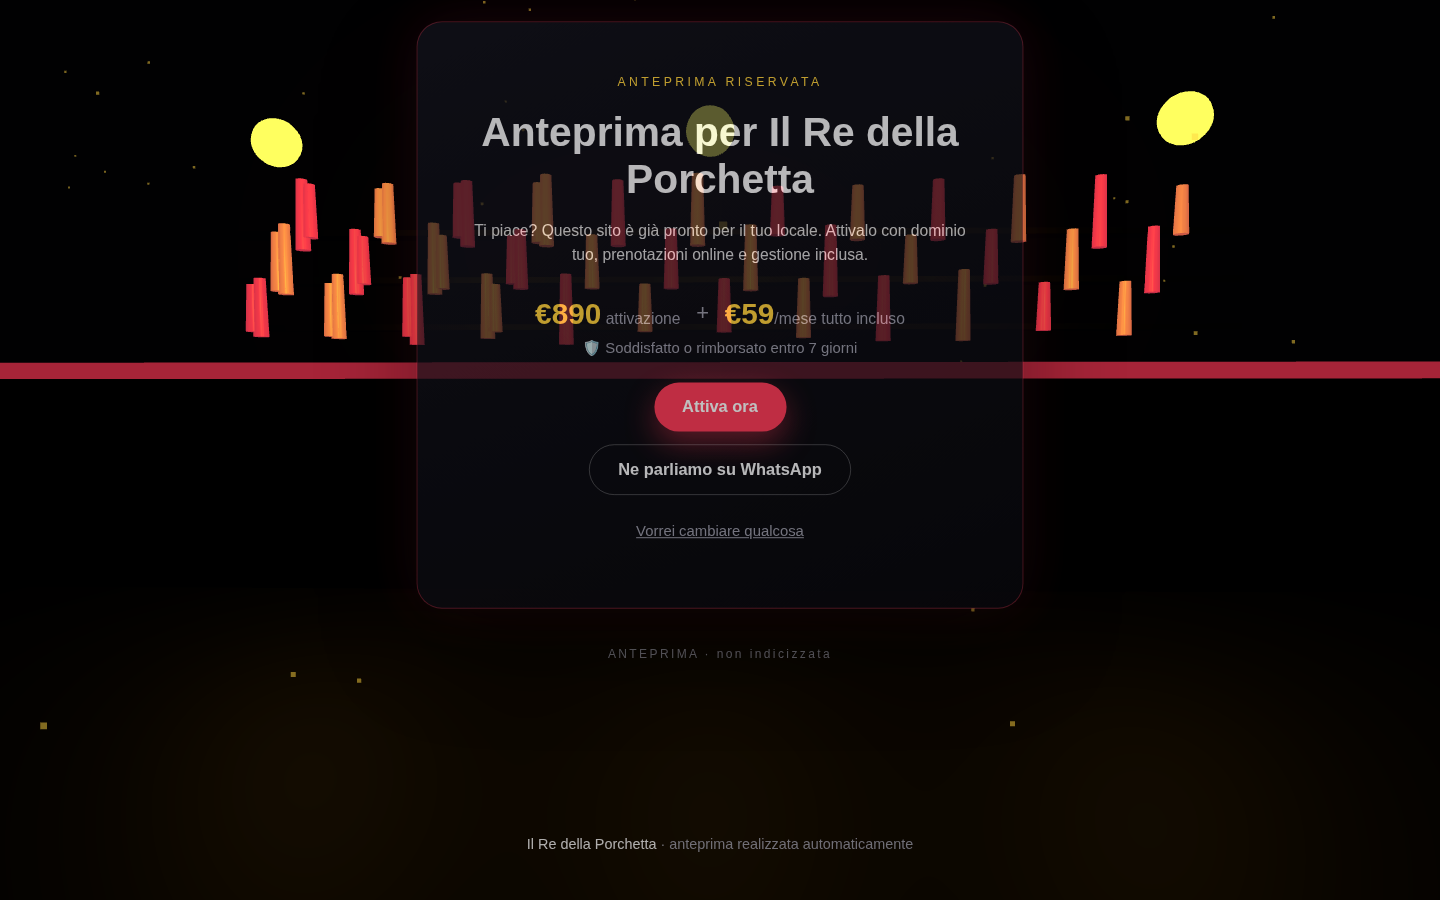
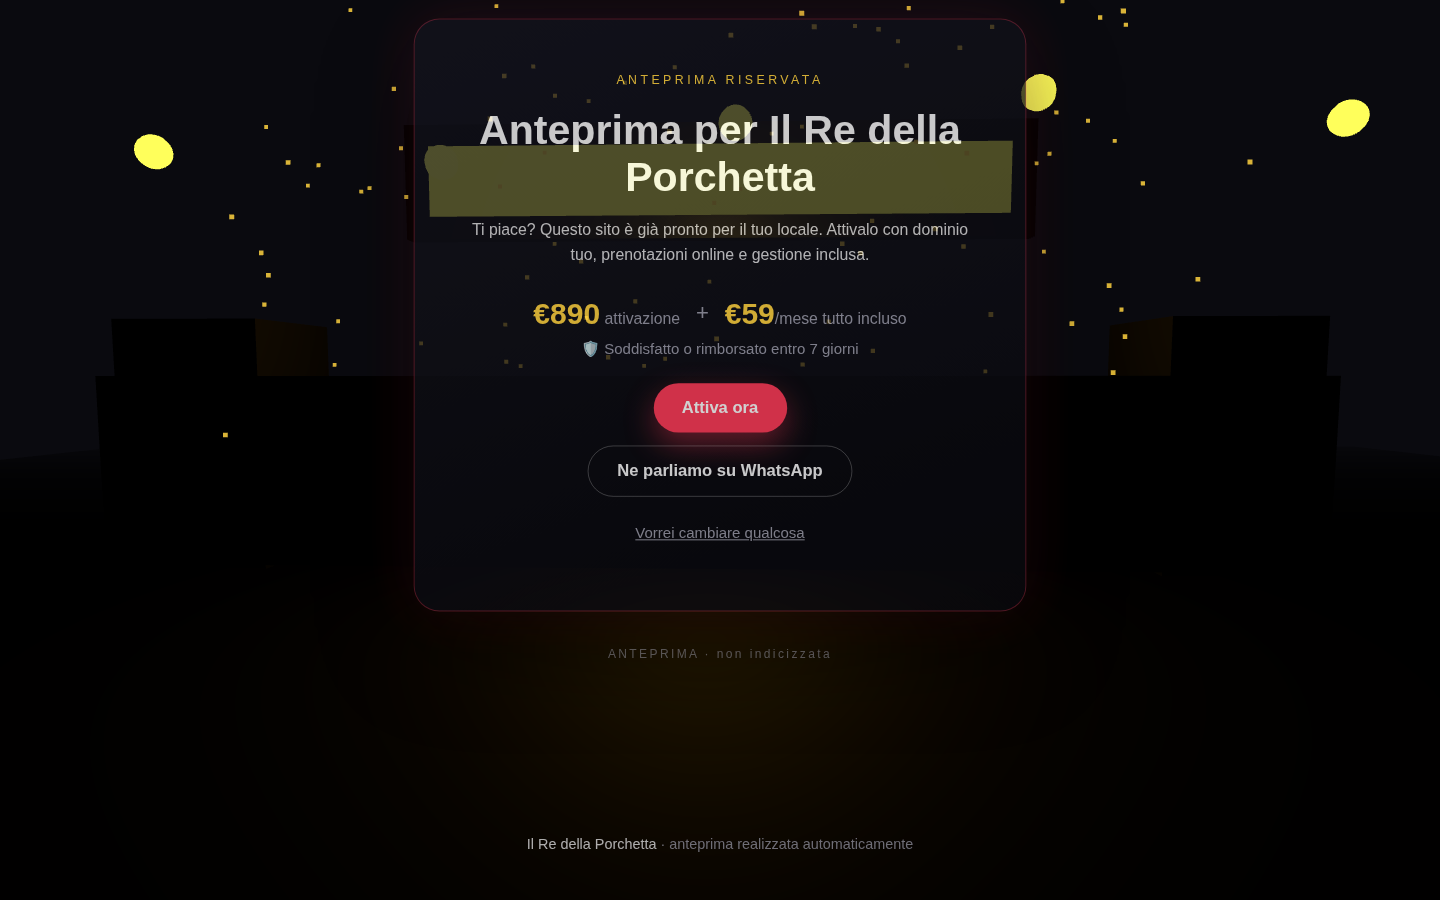
Add visual sales cockpit + street-food 3D scene + robust browser launcher
- scripts/cockpit.mjs: dashboard HTML (KPI, funnel, demo card con screenshot, cancelli, MRR) in outbox/cockpit.html, integrato nella pipeline
- StreetFoodScene: scena 3D distinta (griglia incandescente, braci, insegna) per porchetterie/street food
- lib/browser.mjs: launcher Chromium condiviso (usa il build completo preinstallato) usato da verify e tooling

Claude-Session: https://claude.ai/code/session_0188YfMgnDDs1NVN1Mm385NE

diff --git a/local3d-prospector/outbox/cockpit.html b/local3d-prospector/outbox/cockpit.html
@@ -1,0 +1,68 @@
+<!doctype html><html lang="it"><head><meta charset="utf8"><meta name="viewport" content="width=device-width,initial-scale=1">
+<title>Local3D · Cockpit</title><style>
+*{box-sizing:border-box;margin:0}body{font-family:system-ui,sans-serif;background:#0a0a0f;color:#f5f5f7;padding:2rem;max-width:1200px;margin:auto}
+h1{font-size:1.6rem;margin-bottom:.3rem}.sub{color:#9a9aa8;margin-bottom:1.5rem}
+.kpis{display:flex;gap:1rem;flex-wrap:wrap;margin-bottom:2rem}
+.kpi{background:#15151f;border:1px solid #ffffff14;border-radius:14px;padding:1rem 1.4rem;min-width:140px}
+.kpi b{font-size:1.8rem;display:block;color:#ffd23f}.kpi span{color:#9a9aa8;font-size:.85rem}
+h2{font-size:1.1rem;margin:2rem 0 1rem;border-bottom:1px solid #ffffff14;padding-bottom:.5rem}
+.frow{display:flex;align-items:center;gap:.6rem;margin:.35rem 0}.fname{width:110px;color:#9a9aa8;font-size:.85rem}
+.fbar{height:12px;background:linear-gradient(90deg,#ff3d5a,#ffd23f);border-radius:6px;min-width:4px}.fnum{font-weight:700}
+.grid{display:grid;grid-template-columns:repeat(auto-fill,minmax(340px,1fr));gap:1.2rem}
+.card{background:#15151f;border:1px solid #ffffff14;border-radius:16px;padding:1.1rem}
+.chead{display:flex;justify-content:space-between;align-items:center}.chead h3{font-size:1.15rem}
+.score{background:#ff3d5a22;border:1px solid #ff3d5a55;color:#ffd23f;border-radius:100px;padding:.1rem .7rem;font-weight:700}
+.meta{color:#9a9aa8;font-size:.85rem;margin:.5rem 0}.small{font-size:.78rem}
+.shots{display:grid;grid-template-columns:2fr 1fr;grid-template-rows:auto auto;gap:.4rem;margin:.6rem 0}
+.shots a:first-child{grid-row:span 2}.shots img{width:100%;border-radius:8px;display:block;border:1px solid #ffffff14}
+.actions{display:flex;flex-direction:column;gap:.3rem;margin-top:.6rem}
+code{background:#000;padding:.25rem .5rem;border-radius:6px;font-size:.75rem;color:#ffd23f;display:block;overflow:auto}
+.state{padding:.05rem .5rem;border-radius:100px;font-size:.72rem}.s-approvata{background:#3fae6a33;color:#7fe0a3}
+.s-demo-pronta{background:#ffd23f22;color:#ffd23f}.s-pagato,.s-live,.s-attivo{background:#00e5ff22;color:#7ff0ff}
+.empty{color:#6a6a78;font-style:italic}
+</style></head><body>
+<h1>Local3D · Cockpit</h1>
+<div class="sub">Governa i due cancelli. Aggiornato: 2026-07-05T06:32:09.564Z</div>
+<div class="kpis">
+  <div class="kpi"><b>3</b><span>prospect totali</span></div>
+  <div class="kpi"><b>1</b><span>demo da approvare</span></div>
+  <div class="kpi"><b>2</b><span>contatti da inviare</span></div>
+  <div class="kpi"><b>0</b><span>clienti</span></div>
+  <div class="kpi"><b>€0</b><span>MRR stimato</span></div>
+</div>
+
+<h2>🟢 Cancello 1 — Demo da approvare (1)</h2>
+<div class="grid"><div class="card">
+    <div class="chead"><h3>Il Re della Porchetta</h3><span class="score">46</span></div>
+    <div class="meta">4.6★ (512) · Frascati · streetfood · <span class="state s-demo-pronta">demo-pronta</span></div>
+    <div class="shots"><a href="../sites/il-re-della-porchetta/shots/desktop-hero.png" target="_blank"><img src="../sites/il-re-della-porchetta/shots/desktop-hero.png" loading="lazy"></a><a href="../sites/il-re-della-porchetta/shots/mobile-hero.png" target="_blank"><img src="../sites/il-re-della-porchetta/shots/mobile-hero.png" loading="lazy"></a><a href="../sites/il-re-della-porchetta/shots/desktop-cta.png" target="_blank"><img src="../sites/il-re-della-porchetta/shots/desktop-cta.png" loading="lazy"></a></div>
+    <div class="meta small">QA ✓ 1060KB · 558ms</div>
+    <div class="meta small">Demo: <code>https://api.local3d.example/d/iuo8uijz49fm1ur3nxemyt</code></div>
+    <div class="actions">
+      <code>npm run registry -- approve mock_porchetta_re</code>
+      <code>npm run registry -- reject mock_porchetta_re</code>
+    </div>
+  </div></div>
+
+<h2>✅ Approvate — pronte a pubblicare/inviare (1)</h2>
+<div class="grid"><div class="card">
+    <div class="chead"><h3>Arcadia Pub</h3><span class="score">56</span></div>
+    <div class="meta">4.7★ (384) · Ciampino · pub · <span class="state s-approvata">approvata</span></div>
+    <div class="shots"><a href="../sites/arcadia-pub/shots/desktop-hero.png" target="_blank"><img src="../sites/arcadia-pub/shots/desktop-hero.png" loading="lazy"></a><a href="../sites/arcadia-pub/shots/mobile-hero.png" target="_blank"><img src="../sites/arcadia-pub/shots/mobile-hero.png" loading="lazy"></a><a href="../sites/arcadia-pub/shots/desktop-cta.png" target="_blank"><img src="../sites/arcadia-pub/shots/desktop-cta.png" loading="lazy"></a></div>
+    <div class="meta small">QA ✓ 1057KB · 565ms</div>
+    <div class="meta small">Demo: <code>https://api.local3d.example/d/b17kza8jecjol730fgw4u9</code></div>
+    <div class="actions">
+      <code>npm run registry -- approve mock_arcadia_pub</code>
+      <code>npm run registry -- reject mock_arcadia_pub</code>
+    </div>
+  </div></div>
+
+<h2>📊 Funnel</h2>
+<div class="frow"><span class="fname">trovato</span><span class="fbar" style="width:100%"></span><span class="fnum">1</span></div><div class="frow"><span class="fname">demo-pronta</span><span class="fbar" style="width:100%"></span><span class="fnum">1</span></div><div class="frow"><span class="fname">approvata</span><span class="fbar" style="width:100%"></span><span class="fnum">1</span></div>
+
+<h2>📨 Cancello 2 — Contatti pronti (2)</h2>
+<div class="meta">• <b>Arcadia Pub</b> — info@arcadiapub.example · <code>npm run registry -- sent mock_arcadia_pub</code></div><div class="meta">• <b>Il Re della Porchetta</b> — prenotazioni@reporchetta.example · <code>npm run registry -- sent mock_porchetta_re</code></div>
+
+<h2>🔥 Lead caldi</h2>
+<p class="meta small">In produzione arrivano dal backend: <code>curl -H "Authorization: Bearer $ADMIN_TOKEN" $WORKER_BASE/admin/leads</code> — chi ha aperto/cliccato la demo è il momento di chiamare.</p>
+</body></html>

diff --git a/local3d-prospector/sites/il-re-della-porchetta/index.html b/local3d-prospector/sites/il-re-della-porchetta/index.html
@@ -11,9 +11,9 @@
       Un solo bundle, N siti: si cambia solo questo blocco per cliente.
     -->
     <script id="business-data">
-      window.__BUSINESS__ = {"meta":{"place_id":"mock_porchetta_re","slug":"il-re-della-porchetta","owner_id":"danilo","category":"porchetteria","template":"streetfood","build_mode":"demo","score":46,"generated_at":"2026-07-05T06:26:00.321Z"},"identity":{"name":"Il Re della Porchetta","claim":"Porchetta, come si deve","tone":"street"},"contacts":{"phone":{"value":"06 9876 5432","source":"google_places"},"address":{"value":"Piazza del Mercato 8, 00044 Frascati RM","maps_url":"https://maps.google.com/?cid=porchetta","source":"google_places"},"hours":{"value":["lunedì: Chiuso","martedì: 10:00–15:00","mercoledì: 10:00–15:00","giovedì: 10:00–15:00","venerdì: 10:00–15:00, 18:00–22:00","sabato: 10:00–22:00","domenica: 10:00–16:00"],"source":"google_places"}},"social_proof":{"rating":4.6,"count":512,"source":"google_places","themes":[{"label":"Porchetta","evidence_count":4,"source":"derived_from_reviews"},{"label":"Panino","evidence_count":2,"source":"derived_from_reviews"}],"testimonials":[{"text":"La porchetta è leggendaria, il panino più buono dei Castelli. C'è sempre la fila ma ne vale la pena.","author":"Cliente G.","source":"derived_from_reviews"},{"text":"Supplì fantastici e porchetta da urlo. Prenotate per il pranzo della domenica.","author":"Cliente M.","source":"derived_from_reviews"},{"text":"Panino con la porchetta enorme e saporito, salsiccia ottima. Sempre pieno.","author":"Cliente A.","source":"derived_from_reviews"}]},"gallery":[],"loved":[{"name":"Porchetta","source":"derived_from_reviews"},{"name":"Panino","source":"derived_from_reviews"}],"theme":{"palette":{"bg":"#0a0a0f","surface":"#15151f","primary":"#ff3d5a","accent":"#ffd23f","text":"#f5f5f7","muted":"#9a9aa8"},"font_display":"'Anton', sans-serif","font_body":"'Inter', sans-serif","fx_intensity":"high"},"sections_order":["hero","atmosphere","loved","reviews","hours","contact","cta"],"cta":{"mode":"demo","headline":"Anteprima per Il Re della Porchetta","price_setup_eur":890,"price_monthly_eur":59,"guarantee_days":7,"wa_link":"https://wa.me/390698765432?text=Buongiorno!%20Sono%20Danilo%2C%20creo%20siti%20per%20locali%20della%20zona.%20Ho%20preparato%20un'anteprima%20gratuita%20del%20sito%20di%20Il%20Re%20della%20Porchetta%2C%20guardatela%20quando%20volete%3A%20https%3A%2F%2Fapi.local3d.example%2Fd%2Fvc6fsvy5pykgn6y34jgj3z%20%E2%80%94%20se%20vi%20piace%20ne%20parliamo%2C%20altrimenti%20nessun%20problema%20%F0%9F%99%82","checkout_url":"https://api.local3d.example/buy/vc6fsvy5pykgn6y34jgj3z","track_url":"https://api.local3d.example/track"}};
+      window.__BUSINESS__ = {"meta":{"place_id":"mock_porchetta_re","slug":"il-re-della-porchetta","owner_id":"danilo","category":"porchetteria","template":"streetfood","build_mode":"demo","score":46,"generated_at":"2026-07-05T06:32:02.819Z"},"identity":{"name":"Il Re della Porchetta","claim":"Porchetta, come si deve","tone":"street"},"contacts":{"phone":{"value":"06 9876 5432","source":"google_places"},"address":{"value":"Piazza del Mercato 8, 00044 Frascati RM","maps_url":"https://maps.google.com/?cid=porchetta","source":"google_places"},"hours":{"value":["lunedì: Chiuso","martedì: 10:00–15:00","mercoledì: 10:00–15:00","giovedì: 10:00–15:00","venerdì: 10:00–15:00, 18:00–22:00","sabato: 10:00–22:00","domenica: 10:00–16:00"],"source":"google_places"}},"social_proof":{"rating":4.6,"count":512,"source":"google_places","themes":[{"label":"Porchetta","evidence_count":4,"source":"derived_from_reviews"},{"label":"Panino","evidence_count":2,"source":"derived_from_reviews"}],"testimonials":[{"text":"La porchetta è leggendaria, il panino più buono dei Castelli. C'è sempre la fila ma ne vale la pena.","author":"Cliente G.","source":"derived_from_reviews"},{"text":"Supplì fantastici e porchetta da urlo. Prenotate per il pranzo della domenica.","author":"Cliente M.","source":"derived_from_reviews"},{"text":"Panino con la porchetta enorme e saporito, salsiccia ottima. Sempre pieno.","author":"Cliente A.","source":"derived_from_reviews"}]},"gallery":[],"loved":[{"name":"Porchetta","source":"derived_from_reviews"},{"name":"Panino","source":"derived_from_reviews"}],"theme":{"palette":{"bg":"#0a0a0f","surface":"#15151f","primary":"#ff3d5a","accent":"#ffd23f","text":"#f5f5f7","muted":"#9a9aa8"},"font_display":"'Anton', sans-serif","font_body":"'Inter', sans-serif","fx_intensity":"high"},"sections_order":["hero","atmosphere","loved","reviews","hours","contact","cta"],"cta":{"mode":"demo","headline":"Anteprima per Il Re della Porchetta","price_setup_eur":890,"price_monthly_eur":59,"guarantee_days":7,"wa_link":"https://wa.me/390698765432?text=Buongiorno!%20Sono%20Danilo%2C%20creo%20siti%20per%20locali%20della%20zona.%20Ho%20preparato%20un'anteprima%20gratuita%20del%20sito%20di%20Il%20Re%20della%20Porchetta%2C%20guardatela%20quando%20volete%3A%20https%3A%2F%2Fapi.local3d.example%2Fd%2Fiuo8uijz49fm1ur3nxemyt%20%E2%80%94%20se%20vi%20piace%20ne%20parliamo%2C%20altrimenti%20nessun%20problema%20%F0%9F%99%82","checkout_url":"https://api.local3d.example/buy/iuo8uijz49fm1ur3nxemyt","track_url":"https://api.local3d.example/track"}};
     </script>
-    <script type="module" crossorigin src="./assets/index-CIP_DABz.js"></script>
+    <script type="module" crossorigin src="./assets/index-CpWbt7dV.js"></script>
     <link rel="modulepreload" crossorigin href="./assets/three-BhVKLJ8W.js">
     <link rel="modulepreload" crossorigin href="./assets/r3f-BiP7AZLj.js">
     <link rel="stylesheet" crossorigin href="./assets/index-D1Sj8Mqg.css">

diff --git a/local3d-prospector/site-template/src/scenes/StreetFoodScene.jsx b/local3d-prospector/site-template/src/scenes/StreetFoodScene.jsx
@@ -1,0 +1,138 @@
+// Scena "street food": bancone/griglia incandescente, braci che salgono, insegna e cassette.
+// Vibe da mercato/friggitoria — distinta dal pub. Camera che si avvicina al bancone scrollando.
+import React, { useMemo, useRef } from 'react';
+import { useFrame } from '@react-three/fiber';
+import * as THREE from 'three';
+import { useScrollRef } from '../lib/scroll.js';
+
+function hex(c, f) { try { return new THREE.Color(c || f); } catch { return new THREE.Color(f); } }
+
+function CameraRig() {
+  const scroll = useScrollRef();
+  useFrame(({ camera }) => {
+    const p = scroll.current;
+    camera.position.lerp(new THREE.Vector3(Math.sin(p * 0.5) * 1.1, 1.7 - p * 0.5, 8.5 - p * 13), 0.08);
+    camera.lookAt(0, 1.0 - p * 0.2, -6);
+  });
+  return null;
+}
+
+// Braci/scintille che salgono dalla griglia.
+function Embers({ palette, count = 140 }) {
+  const ref = useRef();
+  const scroll = useScrollRef();
+  const primary = hex(palette.primary, '#ff3d5a');
+  const accent = hex(palette.accent, '#ffd23f');
+  const seeds = useMemo(() => {
+    const a = [];
+    for (let i = 0; i < count; i++) a.push({ x: -3 + Math.random() * 6, z: -4.5 + Math.random() * 1.6, speed: 0.4 + Math.random() * 0.8, off: Math.random() * 6, sway: Math.random() * 2 });
+    return a;
+  }, [count]);
+  const positions = useMemo(() => new Float32Array(count * 3), [count]);
+  useFrame(({ clock }) => {
+    if (!ref.current) return;
+    const t = clock.getElapsedTime();
+    seeds.forEach((s, i) => {
+      const y = ((t * s.speed + s.off) % 4);
+      positions[i * 3] = s.x + Math.sin(t + s.sway) * 0.12;
+      positions[i * 3 + 1] = 1.1 + y;
+      positions[i * 3 + 2] = s.z;
+    });
+    ref.current.geometry.attributes.position.needsUpdate = true;
+    ref.current.material.color.copy(scroll.current > 0.5 ? accent : primary);
+  });
+  return (
+    <points ref={ref}>
+      <bufferGeometry><bufferAttribute attach="attributes-position" count={count} array={positions} itemSize={3} /></bufferGeometry>
+      <pointsMaterial size={0.05} color={primary} transparent opacity={0.85} sizeAttenuation toneMapped={false} />
+    </points>
+  );
+}
+
+function Counter({ palette }) {
+  const surface = hex(palette.surface, '#221913');
+  const primary = hex(palette.primary, '#ff3d5a');
+  const accent = hex(palette.accent, '#ffd23f');
+  const grill = useRef();
+  useFrame(({ clock }) => {
+    if (grill.current) grill.current.material.emissiveIntensity = 0.8 + Math.sin(clock.getElapsedTime() * 3) * 0.25;
+  });
+  return (
+    <group>
+      {/* pavimento */}
+      <mesh rotation={[-Math.PI / 2, 0, 0]} position={[0, 0, -2]}>
+        <planeGeometry args={[26, 30]} />
+        <meshStandardMaterial color={hex(palette.bg, '#0a0a0f')} roughness={0.85} />
+      </mesh>
+      {/* bancone */}
+      <mesh position={[0, 0.9, -4]}>
+        <boxGeometry args={[7, 1.1, 1.6]} />
+        <meshStandardMaterial color={surface} roughness={0.4} metalness={0.4} />
+      </mesh>
+      {/* piastra della griglia incandescente */}
+      <mesh ref={grill} position={[0, 1.47, -4]} rotation={[-Math.PI / 2, 0, 0]}>
+        <planeGeometry args={[6.6, 1.2]} />
+        <meshStandardMaterial color={primary} emissive={primary} emissiveIntensity={1} roughness={0.3} metalness={0.5} toneMapped={false} />
+      </mesh>
+      <pointLight position={[0, 1.8, -3.6]} color={accent} intensity={9} distance={10} decay={2} />
+      {/* cassette impilate ai lati */}
+      {[-3.2, 3.2].map((x, i) => (
+        <group key={i} position={[x, 0.5, -4]}>
+          {[0, 0.55, 1.05].map((y, j) => (
+            <mesh key={j} position={[0, y, 0]}>
+              <boxGeometry args={[0.9, 0.5, 0.9]} />
+              <meshStandardMaterial color={surface} roughness={0.7} />
+            </mesh>
+          ))}
+        </group>
+      ))}
+    </group>
+  );
+}
+
+// Insegna luminosa sospesa.
+function Sign({ palette }) {
+  const accent = hex(palette.accent, '#ffd23f');
+  return (
+    <group position={[0, 3, -5.4]}>
+      <mesh>
+        <boxGeometry args={[5, 0.9, 0.15]} />
+        <meshStandardMaterial color={hex(palette.surface, '#221913')} roughness={0.6} />
+      </mesh>
+      <mesh position={[0, 0, 0.1]}>
+        <planeGeometry args={[4.6, 0.55]} />
+        <meshStandardMaterial color={accent} emissive={accent} emissiveIntensity={1.6} toneMapped={false} />
+      </mesh>
+      <pointLight color={accent} intensity={4} distance={7} position={[0, -0.5, 1]} />
+    </group>
+  );
+}
+
+// Fila di lampadine (string lights).
+function StringLights({ palette }) {
+  const accent = hex(palette.accent, '#ffd23f');
+  const bulbs = [-4, -2.6, -1.2, 0.2, 1.6, 3, 4.4];
+  return bulbs.map((x, i) => (
+    <mesh key={i} position={[x, 2.6 + Math.sin(x) * 0.15, -2.5]}>
+      <sphereGeometry args={[0.08, 10, 10]} />
+      <meshStandardMaterial color={accent} emissive={accent} emissiveIntensity={2} toneMapped={false} />
+    </mesh>
+  ));
+}
+
+export default function StreetFoodScene({ theme, level }) {
+  const palette = theme?.palette || {};
+  const embers = level === 'high' ? 160 : level === 'medium' ? 90 : 40;
+  return (
+    <>
+      <color attach="background" args={[hex(palette.bg, '#0a0a0f')]} />
+      <fog attach="fog" args={[hex(palette.bg, '#0a0a0f'), 7, 24]} />
+      <ambientLight intensity={0.3} />
+      <CameraRig />
+      <Counter palette={palette} />
+      <Sign palette={palette} />
+      {level !== 'low' && <StringLights palette={palette} />}
+      <Embers palette={palette} count={embers} />
+    </>
+  );
+}

diff --git a/local3d-prospector/site-template/src/scenes/index.js b/local3d-prospector/site-template/src/scenes/index.js
@@ -2,11 +2,12 @@
 // street food / etnico / barbiere la riusano ri-tematizzata finché non si autora una scena dedicata
 // (coerente col piano: prima UN template eccellente, poi il secondo dopo le prime vendite).
 import BarScene from './BarScene.jsx';
+import StreetFoodScene from './StreetFoodScene.jsx';
 
 const REGISTRY = {
   pub: BarScene,
-  streetfood: BarScene,
-  ethnic: BarScene,
+  streetfood: StreetFoodScene,
+  ethnic: BarScene,   // riusa il pub ri-tematizzato finché non ha una scena dedicata
   barber: BarScene,
 };
 
